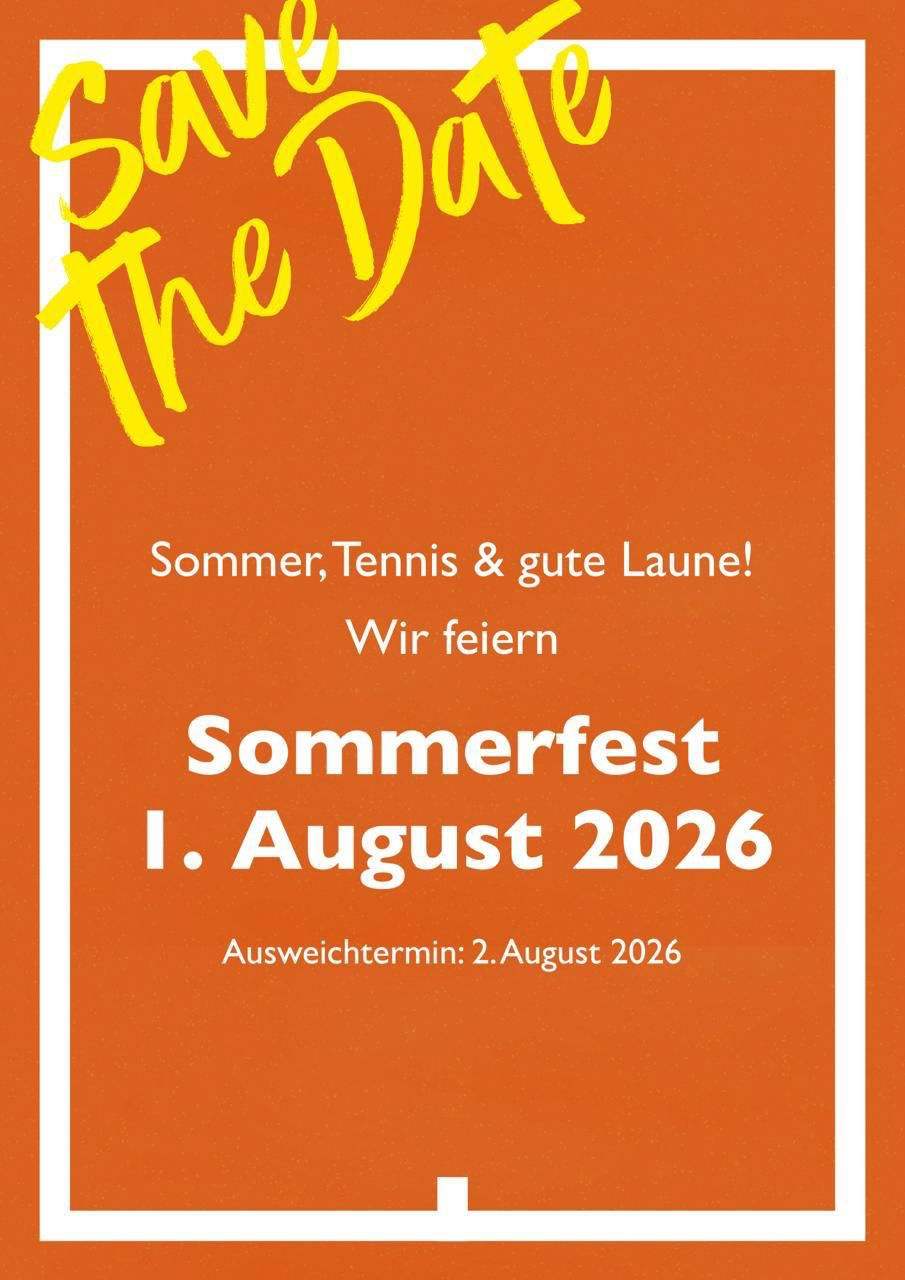
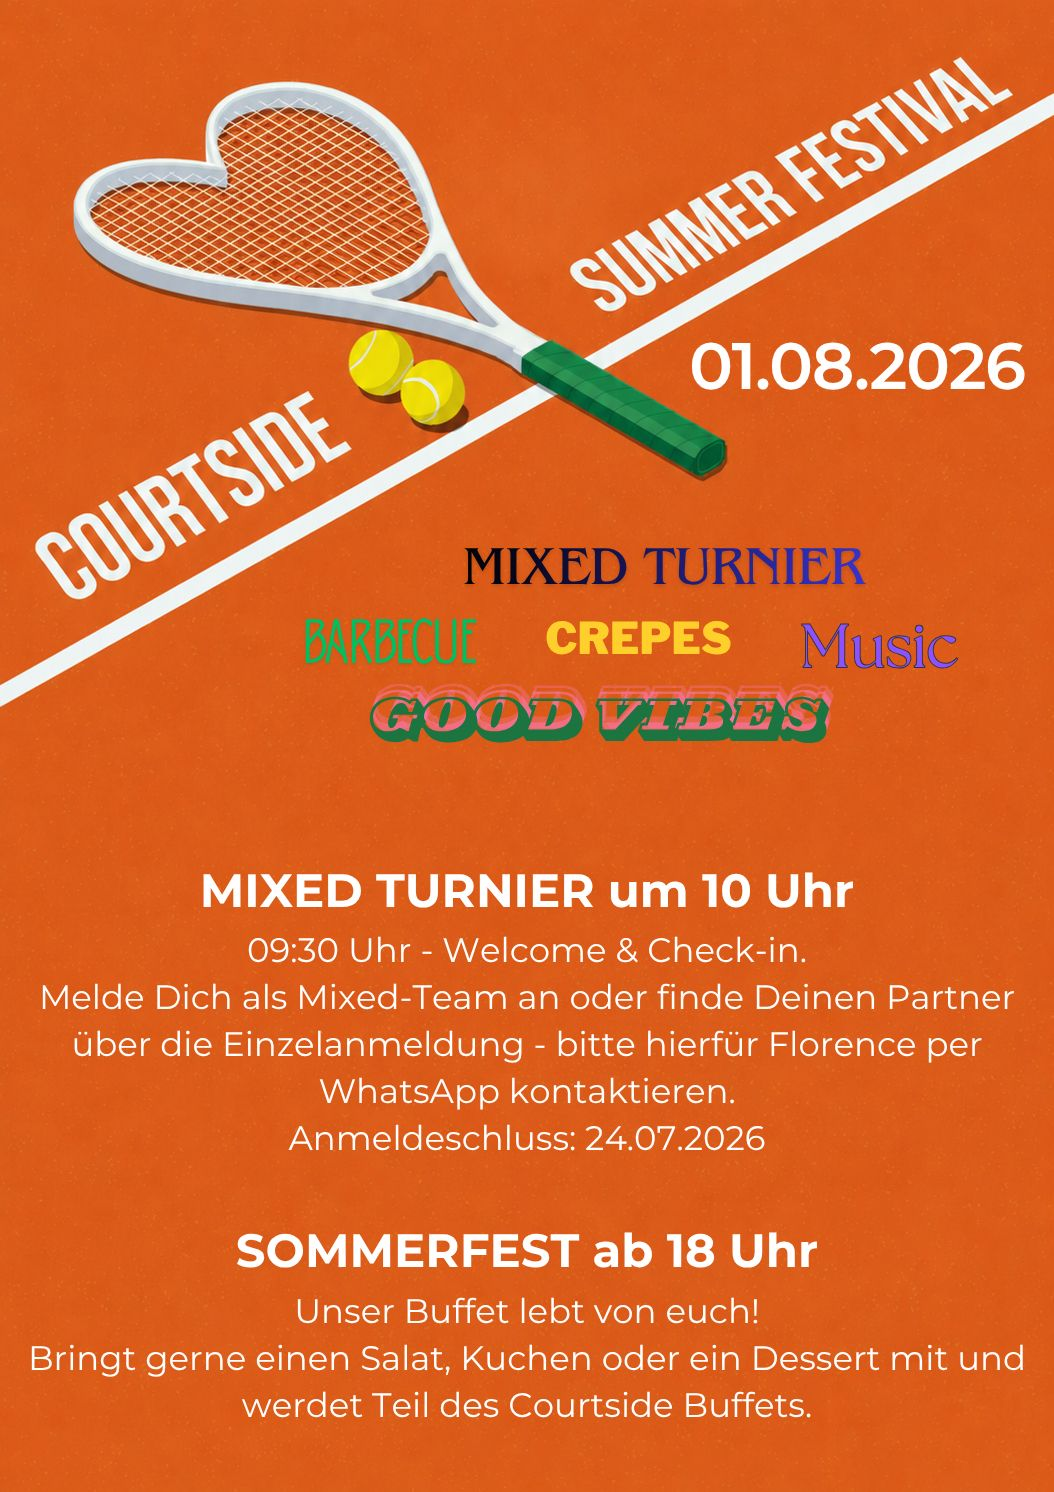
updates TC

diff --git a/src/data/platzbelegung.js b/src/data/platzbelegung.js
@@ -58,6 +58,10 @@ export const MEDENSPIELE_TERMINE = [
   { datum: '2026-06-22', zeiten: [
     { von: '18:30', mannschaften: ['D40C'], plaetze: [3, 4], buffer: 15 },
   ]},
+    { datum: '2026-06-23', zeiten: [
+    { von: '08:30', mannschaften: ['Privatschule Tennis-Turnier'], plaetze: [1, 2,3, 4]},
+    { von: '10:30', mannschaften: ['Privatschule Tennis-Turnier'], plaetze: [3, 4]},
+  ]},
   { datum: '2026-06-26', zeiten: [
     { von: '15:00', mannschaften: ['U15m II'] },
   ]},
@@ -170,17 +174,26 @@ export const BELEGUNGEN = [
     ],
   },
 
-  /* Privatschule Sport-Sondertag
+  //Privatschule Sport-Sondertag
   {
-    label:   'Privatschule Sport',
-    plaetze: [3, 4],
-    vonDatum: '2026-06-18',   // optional
-    bisDatum: '2026-06-18',   // optional
+    label:   'Privatschule Tennis-Turnier',
+    plaetze: [1, 2, 3, 4],
+    vonDatum: '2026-06-23',   // optional
+    bisDatum: '2026-06-23',   // optional
     zeiten: [
-      { wochentage: [4], von: '11:30', bis: '13:00' },
+      { wochentage: [2], von: '8:30', bis: '10:00' },
     ],
   },
-*/
+
+  {
+    label:   'Privatschule Tennis-Turnier',
+    plaetze: [3, 4],
+    vonDatum: '2026-06-23',   // optional
+    bisDatum: '2026-06-23',   // optional
+    zeiten: [
+      { wochentage: [2], von: '10:00', bis: '10:00' },
+    ],
+  },
 
 
   // Weitere Belegungen hier eintragen:
